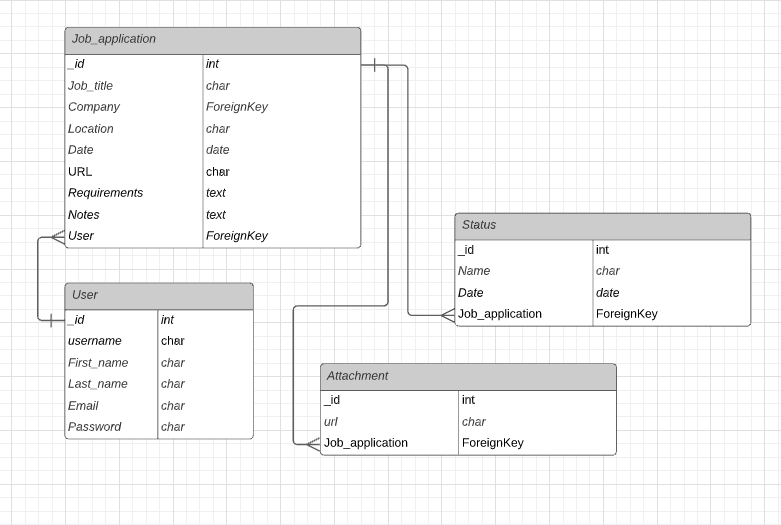
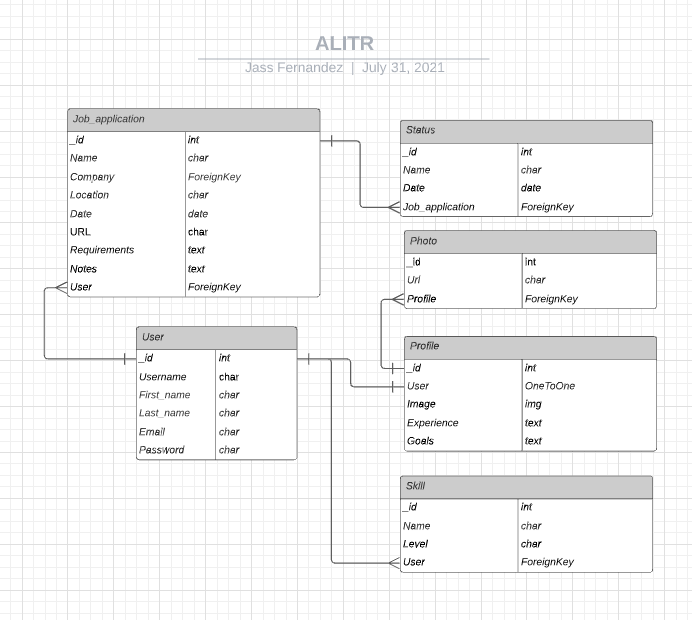
added AWS S3 photo upload, minor fixes

diff --git a/main_app/templates/profile/update.html b/main_app/templates/profile/update.html
@@ -1,8 +1,25 @@
 {% extends 'base.html' %}
 {% block content %}
+{% load static %}
 
-<h1>Update Profile</h1>
-
+<h3 class="center">Update Profile</h1>
+    <a href="{% url 'profile' %}">&larr; Return</a>
+    <br>
+<label for="profile" class="active">Profile Image:</label>
+<br>
+    {% if photo %}
+      <img src="{{photo.url}}" alt="{{request.user.first_name}}" class="profile-img">
+    {% else %}
+      <img src="{% static 'images/default.png' %}" alt="default image" class="profile-img">
+    {% endif %}
+    <form action="{% url 'add_photo' profile.id %}" method="POST" enctype="multipart/form-data">
+      {% csrf_token %}
+      <input type="file" name="photo-file">
+      <br>
+      <br>
+      <input type="submit" class="btn" value="Upload Photo">
+    </form>
+    <br>
 <form action="" method="POST" enctype="multipart/form-data">
     {% csrf_token %}
     {{ u_form.as_p }}

diff --git a/main_app/templates/profile/index.html b/main_app/templates/profile/index.html
@@ -1,5 +1,6 @@
 {% extends 'base.html' %}
 {% block content %}
+{% load static %}
 
 <h3 class="center">Profile</h3>
 
@@ -7,7 +8,11 @@
     <div class="card-content profile-card">
             <div class="row ">
                 <div class="col s4 center">
-                    <img src="/media/{{ profile.image }}" alt="{{ profile.image }}" class="center">
+                    {% if photo %}
+                        <img src="{{ photo.url }}" alt="{{ profile.user.username }}" class="profile-img center">
+                    {% else %}
+                        <img src="{% static 'images/default.png' %}" alt="default image" class="profile-img">
+                    {% endif %}
                 </div>
                 <div class="col s8 profile-details">
                     <p><b>Username:</b> {{ user.username }}</p>

diff --git a/main_app/templates/main_app/skill_form.html b/main_app/templates/main_app/skill_form.html
@@ -2,9 +2,9 @@
 
 {% block content %}
   {% if object %}
-    <h1>Edit <span class="teal-text">Skill</span></h1>
+    <h3 class="center">Edit <span class="teal-text">Skill</span></h3>
   {% else %}
-    <h1>Add Skill</h1>
+    <h3 class="center">Add Skill</h3>
     <div class="content-section">
       <div class="media">
         <img class="rounded-circle account-img" src="{{ user.profile.image.url }}">
@@ -25,6 +25,7 @@
       <!-- Render the inputs inside of <tr>s & <td>s -->
       {{ form.as_table }}
     </table>
+    <br>
     <input type="submit" value="Submit!" class="btn">
     <input type="hidden" name="next" value="{{ next }}">
   </form>

diff --git a/main_app/templates/main_app/skill_list.html b/main_app/templates/main_app/skill_list.html
@@ -1,9 +1,10 @@
 {% extends 'base.html' %}
 {% block content %}
 
-<h1> User Skills</h1>
+<h3 class="center"> User Skills</h3>
 
 {% for skill in skill_list %}
+  {% if skill.user == request.user %}
   <a href="{% url 'skills_detail' skill.id %}">
     <div class="card">
         <div class="card-content">
@@ -12,6 +13,7 @@
         </div>
     </div>
   </a>
+  {% endif %}
 {% endfor %}
 
 {% endblock %}

diff --git a/main_app/templates/main_app/job_application_form.html b/main_app/templates/main_app/job_application_form.html
@@ -2,9 +2,9 @@
 
 {% block content %}
   {% if object %}
-    <h1>Edit Job Application</h1>
+    <h3 class="center">Edit Job Application</h3>
   {% else %}
-    <h1>Add Job Application</h1>
+    <h3 class="center">Add Job Application</h3>
   {% endif %}
   <!-- Leaving the action empty makes the form post to the same url used to display it -->
   <form action="" method="post">

diff --git a/main_app/static/css/style.css b/main_app/static/css/style.css
@@ -34,6 +34,7 @@ select {
 	  width: 100%;
     height: 5vh;
     padding-top: 0px;
+    margin-top: 2rem;
   }
 
 .homepage-wrapper {
@@ -88,6 +89,13 @@ a:hover {
 
 .profile-card {
   position: relative;
+}
+
+.profile-img {
+  border-radius: 50%;
+  object-fit: cover;
+  width:300px;
+  height:300px;
 }
 
 .edit-profile-btn {

diff --git a/main_app/templates/main_app/skill_detail.html b/main_app/templates/main_app/skill_detail.html
@@ -1,7 +1,7 @@
 {% extends 'base.html' %}
 {% block content %}
 
-<h1>Skills</h1>
+<h3 class="center">Skills</h3>
 
 <div class="row">
   <div class="col s6 col-offset-3">

diff --git a/main_app/views.py b/main_app/views.py
@@ -1,14 +1,20 @@
 from django.http.response import HttpResponseRedirect
 from .forms import StatusForm
-from .models import Job_application, Status,Skill
+from .models import Job_application, Status,Skill, Pro, Photo
 from os import error
 from django.shortcuts import get_object_or_404, render, redirect
 from django.urls import reverse
 from django.views.generic.edit import CreateView, UpdateView, DeleteView
 from django.views.generic import ListView, DetailView
 from django.contrib import messages
-from .forms import UserRegisterForm, UserUpdateForm, ProfileUpdateForm# Import the form we just created
+from .forms import UserRegisterForm, UserUpdateForm, ProfileUpdateForm # Import the form we just created
 
+# for AWS
+import boto3
+import uuid
+# AWS constants
+S3_BASE_URL = 'https://s3-us-west-1.amazonaws.com/'
+BUCKET = 'alitr'
 
 # imports for user authentication
 from django.contrib.auth.models import User
@@ -62,22 +68,6 @@ def register(request):
         form = UserRegisterForm()
     return render(request, 'users/register.html', {'form': form})
 
-
-
-'''def signup(request):
-    error_message = ''
-    if request.method == 'POST':
-        form = UserCreationForm(request.POST)
-        if form.is_valid():
-            user = form.save()
-            login(request, user)
-            return redirect('index')
-        else:
-            error_message = 'Invalid signup data - please try again'
-    
-    form = UserCreationForm()
-    return render(request, 'registration/signup.html', {'form': form, 'error_message': error_message })'''
-
 class JobCreate(CreateView):
     model = Job_application
     fields = ['name', 'company', 'location', 'date', 'url', 'requirements', 'notes']
@@ -129,7 +119,7 @@ def delete_status(request, status_id):
 
     return render(request, 'status/delete.html', {'status': status})
 
-#ProfileViews
+# Skill Views
 class SkillList(LoginRequiredMixin, ListView):
   model = Skill
 
@@ -184,10 +174,13 @@ def profile_update(request):
         u_form = UserUpdateForm(instance=request.user)
         p_form = ProfileUpdateForm(instance=request.user.pro)
 
+    photo = Photo.objects.filter(profile=request.user.pro).last()
+
     context = {
         'u_form': u_form,
         'p_form': p_form,
-        'profile': request.user.pro
+        'profile': request.user.pro,
+        'photo': photo
     }
 
     return render(request, 'profile/update.html', context)
@@ -195,5 +188,28 @@ def profile_update(request):
 def profile(request):
     profile = request.user.pro
     skills = Skill.objects.filter(user=request.user)
+    photo = Photo.objects.filter(profile=request.user.pro).last()
 
-    return render(request, 'profile/index.html', {'profile': profile, 'user': request.user, 'skills': skills })
+    return render(request, 'profile/index.html', {
+        'profile': profile, 
+        'user': request.user, 
+        'skills': skills,
+        'photo': photo,
+    })
+
+def add_photo(request, pro_id):
+    photo_file = request.FILES.get('photo-file', None)
+    if photo_file:
+        s3 = boto3.client('s3')
+        # need a unique "key" for S3 / needs image file extension too
+        key = uuid.uuid4().hex[:6] + photo_file.name[photo_file.name.rfind('.'):]
+        # just in case something goes wrong
+        try:
+            s3.upload_fileobj(photo_file, BUCKET, key)
+            url = f"{S3_BASE_URL}{BUCKET}/{key}"
+            photo = Photo(url=url, profile_id=pro_id)
+            photo.save()
+        except:
+            print('An error occurred uploading file to S3')
+
+    return redirect('profile')

diff --git a/main_app/migrations/0011_auto_20210730_2252.py b/main_app/migrations/0011_auto_20210730_2252.py
@@ -1,0 +1,26 @@
+# Generated by Django 3.2.5 on 2021-07-31 05:52
+
+from django.db import migrations, models
+import django.db.models.deletion
+
+
+class Migration(migrations.Migration):
+
+    dependencies = [
+        ('main_app', '0010_auto_20210729_2159'),
+    ]
+
+    operations = [
+        migrations.AlterModelOptions(
+            name='status',
+            options={'ordering': ['-date'], 'verbose_name_plural': 'Status'},
+        ),
+        migrations.CreateModel(
+            name='Photo',
+            fields=[
+                ('id', models.BigAutoField(auto_created=True, primary_key=True, serialize=False, verbose_name='ID')),
+                ('url', models.CharField(max_length=200)),
+                ('profile', models.ForeignKey(on_delete=django.db.models.deletion.CASCADE, to='main_app.pro')),
+            ],
+        ),
+    ]

diff --git a/main_app/urls.py b/main_app/urls.py
@@ -22,13 +22,11 @@ urlpatterns = [
     # Company
 
     # User
-    #path('accounts/signup', views.signup, name='signup'),
     path('accounts/signup', views.signup, name='signup'),
     #Profile 
     path('profile/update',views.profile_update, name='profile_update'),
     path('profile/',views.profile, name='profile'),
-
-
+    path('profile/<int:pro_id>/add_photo/', views.add_photo, name='add_photo'),
 
     #Skills
     path('skills/', views.SkillList.as_view(), name='skills_index'),

diff --git a/main_app/models.py b/main_app/models.py
@@ -124,3 +124,11 @@ class Pro(models.Model):
             output_size = (300, 300)
             img.thumbnail(output_size) # Resize image
             img.save(self.image.path) # Save it again and override the larger image
+
+# Profile Photo Model
+class Photo(models.Model):
+  url = models.CharField(max_length=200)
+  profile = models.ForeignKey(Pro, on_delete=models.CASCADE)
+
+  def __str__(self):
+        return f"Photo for profile_id: {self.profile_id} @{self.url}"

diff --git a/main_app/admin.py b/main_app/admin.py
@@ -1,4 +1,4 @@
-from .models import Attachment, Job_application, Status, Skill, Pro
+from .models import Attachment, Job_application, Status, Skill, Pro, Photo
 from django.contrib import admin
 
 # Register your models here.
@@ -7,3 +7,4 @@ admin.site.register(Status)
 admin.site.register(Attachment)
 admin.site.register(Skill)
 admin.site.register(Pro)
+admin.site.register(Photo)
